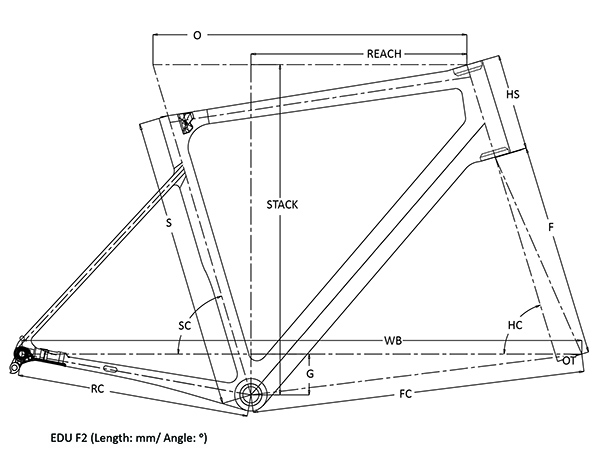
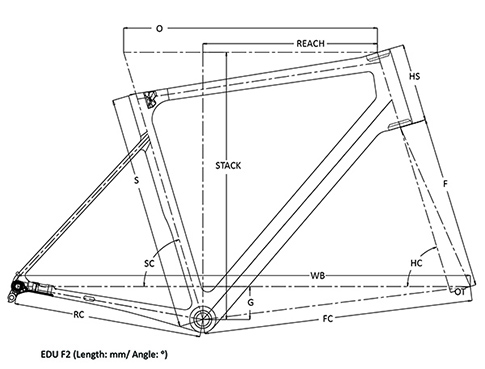
update

diff --git a/Spec-CX56.html b/Spec-CX56.html
@@ -78,89 +78,94 @@ date: 2023/03/18
     			  <th>Stack</th>
   			</tr>
   			<tr>
-    			  <th>460mm</th><!--/Size-->
+    			  <th>490mm</th><!--/Size-->
+    			  <td>440</td><!--/S-->
+    			  <td>75∘</td><!--/SC-->
+    			  <td>510</td></td><!--/O-->
+				  <td>140.3</td><!--/I-->
+    			  <td>105</td><!--/HS-->
+    			  <td>70∘</td><!--/HC-->
+    			  <td>395</td><!--/F-->
+    			  <td>50</td><!--/OT-->
+    			  <td>1012.3</td><!--/WB-->
+    			  <td>592.2</td><!--/FC-->
+    			  <td>430</td><!--/RC-->
+    			  <td>70</td><!--/G-->
+    			  <td>369.7</td><!--/REACH-->
+    			  <td>523.7</td><!--/STACK-->
+            </tr>
+            <tr>
+    			  <th>520mm</th><!--/Size-->
     			  <td>460</td><!--/S-->
     			  <td>74.5∘</td><!--/SC-->
     			  <td>525</td></td><!--/O-->
-    			  <td>120</td><!--/HS-->
-    			  <td>70∘</td><!--/HC-->
-    			  <td>400</td><!--/F-->
+				  <td>147.1</td><!--/I-->
+    			  <td>110</td><!--/HS-->
+    			  <td>70.5∘</td><!--/HC-->
+    			  <td>395</td><!--/F-->
     			  <td>50</td><!--/OT-->
-    			  <td>1024</td><!--/WB-->
-    			  <td>603</td><!--/FC-->
+    			  <td>1018.2</td><!--/WB-->
+    			  <td>598.1</td><!--/FC-->
     			  <td>430</td><!--/RC-->
-    			  <td>69</td><!--/G-->
-    			  <td>374</td><!--/REACH-->
-    			  <td>541</td><!--/STACK-->
+    			  <td>70</td><!--/G-->
+    			  <td>377.9</td><!--/REACH-->
+    			  <td>530.3</td><!--/STACK-->
             </tr>
             <tr>
-    			  <th>490mm</th><!--/Size-->
-    			  <td>490</td><!--/S-->
-    			  <td>74∘</td><!--/SC-->
-    			  <td>540</td></td><!--/O-->
-    			  <td>140</td><!--/HS-->
+    			  <th>540mm</th><!--/Size-->
+    			  <td>480</td><!--/S-->
+    			  <td>73.5∘</td><!--/SC-->
+    			  <td>545</td></td><!--/O-->
+				  <td>162.6</td><!--/I-->
+    			  <td>130</td><!--/HS-->
     			  <td>71∘</td><!--/HC-->
-    			  <td>400</td><!--/F-->
+    			  <td>395</td><!--/F-->
     			  <td>50</td><!--/OT-->
-    			  <td>1026</td><!--/WB-->
-    			  <td>606</td><!--/FC-->
+    			  <td>1025.5</td><!--/WB-->
+    			  <td>604.7</td><!--/FC-->
     			  <td>430</td><!--/RC-->
-    			  <td>69</td><!--/G-->
-    			  <td>378</td><!--/REACH-->
-    			  <td>564</td><!--/STACK-->
+    			  <td>68</td><!--/G-->
+    			  <td>382.4</td><!--/REACH-->
+    			  <td>549.1</td><!--/STACK-->
             </tr>
             <tr>
-    			  <th>510mm</th><!--/Size-->
-    			  <td>510</td><!--/S-->
-    			  <td>73.5∘</td><!--/SC-->
-    			  <td>555</td></td><!--/O-->
-    			  <td>165</td><!--/HS-->
-    			  <td>71.5∘</td><!--/HC-->
-    			  <td>400</td><!--/F-->
+    			  <th>560mm</th><!--/Size-->
+    			  <td>500</td><!--/S-->
+    			  <td>73∘</td><!--/SC-->
+    			  <td>565</td></td><!--/O-->
+				  <td>174.8</td><!--/I-->
+    			  <td>150</td><!--/HS-->
+    			  <td>72∘</td><!--/HC-->
+    			  <td>395</td><!--/F-->
     			  <td>50</td><!--/OT-->
-    			  <td>1032</td><!--/WB-->
-    			  <td>611</td><!--/FC-->
+    			  <td>1031</td><!--/WB-->
+    			  <td>610.3</td><!--/FC-->
     			  <td>430</td><!--/RC-->
-    			  <td>69</td><!--/G-->
-    			  <td>381</td><!--/REACH-->
-    			  <td>589</td><!--/STACK-->
-            </tr>
-            <tr>
-    			  <th>530mm</th><!--/Size-->
-    			  <td>530</td><!--/S-->
-    			  <td>73.5∘</td><!--/SC-->
-    			  <td>570</td></td><!--/O-->
-    			  <td>185</td><!--/HS-->
-    			  <td>71.5∘</td><!--/HC-->
-    			  <td>400</td><!--/F-->
-    			  <td>50</td><!--/OT-->
-    			  <td>1047</td><!--/WB-->
-    			  <td>627</td><!--/FC-->
-    			  <td>430</td><!--/RC-->
-    			  <td>69</td><!--/G-->
-    			  <td>390</td><!--/REACH-->
-    			  <td>608</td><!--/STACK-->
+    			  <td>68</td><!--/G-->
+    			  <td>390.2</td><!--/REACH-->
+    			  <td>571.8</td><!--/STACK-->
             </tr>
 			<tr>
-				<th>560mm</th><!--/Size-->
-				<td>560</td><!--/S-->
-				<td>73∘</td><!--/SC-->
-				<td>590</td></td><!--/O-->
-				<td>205</td><!--/HS-->
-				<td>72∘</td><!--/HC-->
-				<td>400</td><!--/F-->
-				<td>50</td><!--/OT-->
-				<td>1056</td><!--/WB-->
-				<td>636</td><!--/FC-->
-				<td>430</td><!--/RC-->
-				<td>69</td><!--/G-->
-				<td>397</td><!--/REACH-->
-				<td>629</td><!--/STACK-->
+				  <th>580mm</th><!--/Size-->
+				  <td>520</td><!--/S-->
+				  <td>72.5∘</td><!--/SC-->
+				  <td>575</td></td><!--/O-->
+				  <td>189.9</td><!--/I-->
+				  <td>180</td><!--/HS-->
+				  <td>72.5∘</td><!--/HC-->
+				  <td>395</td><!--/F-->
+				  <td>50</td><!--/OT-->
+				  <td>1030.6</td><!--/WB-->
+				  <td>609.8</td><!--/FC-->
+				  <td>430</td><!--/RC-->
+				  <td>68</td><!--/G-->
+				  <td>385.1</td><!--/REACH-->
+				  <td>602.3</td><!--/STACK-->
 		  </tr>		
   	     </table>
         </div>
         <div class="col-xs-12 col-md-5">
-  	    	<img class="img-responsive" src="images/portfolio/geometry/GRAVELX- Geometry.jpg" style="float:left;">
+  	    	<img class="img-responsive" src="images/portfolio/geometry/CX56- Geometry.jpg" style="float:left;">
             </div>
           </div><!--row--> 
         </div><!--container-->
